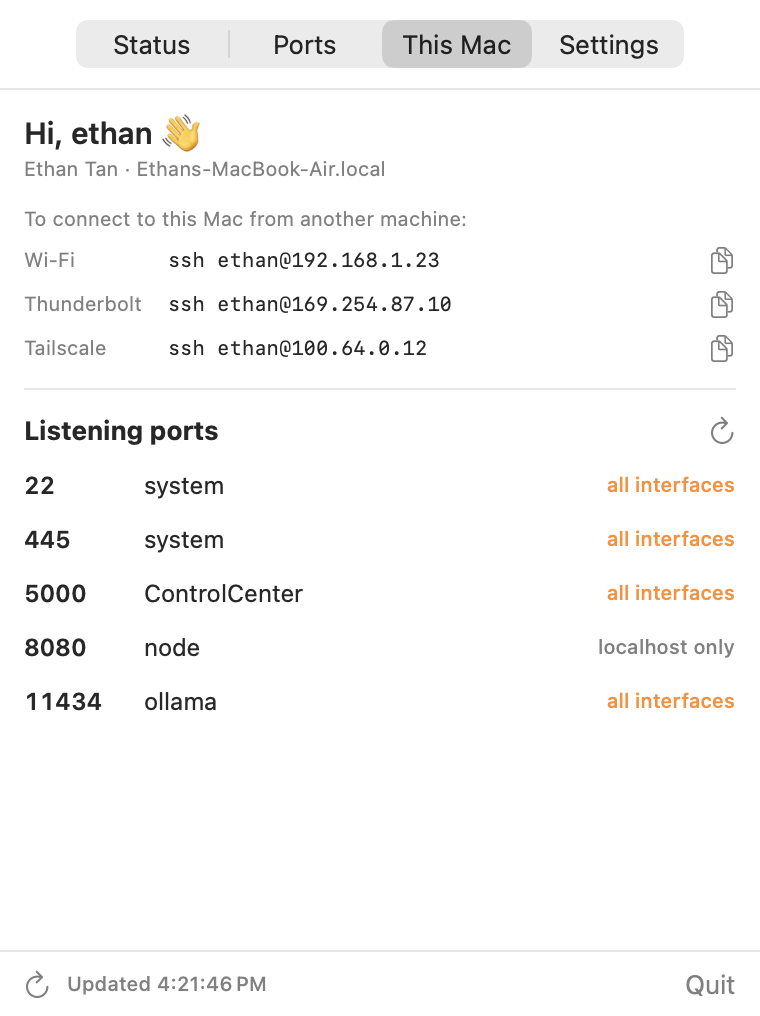
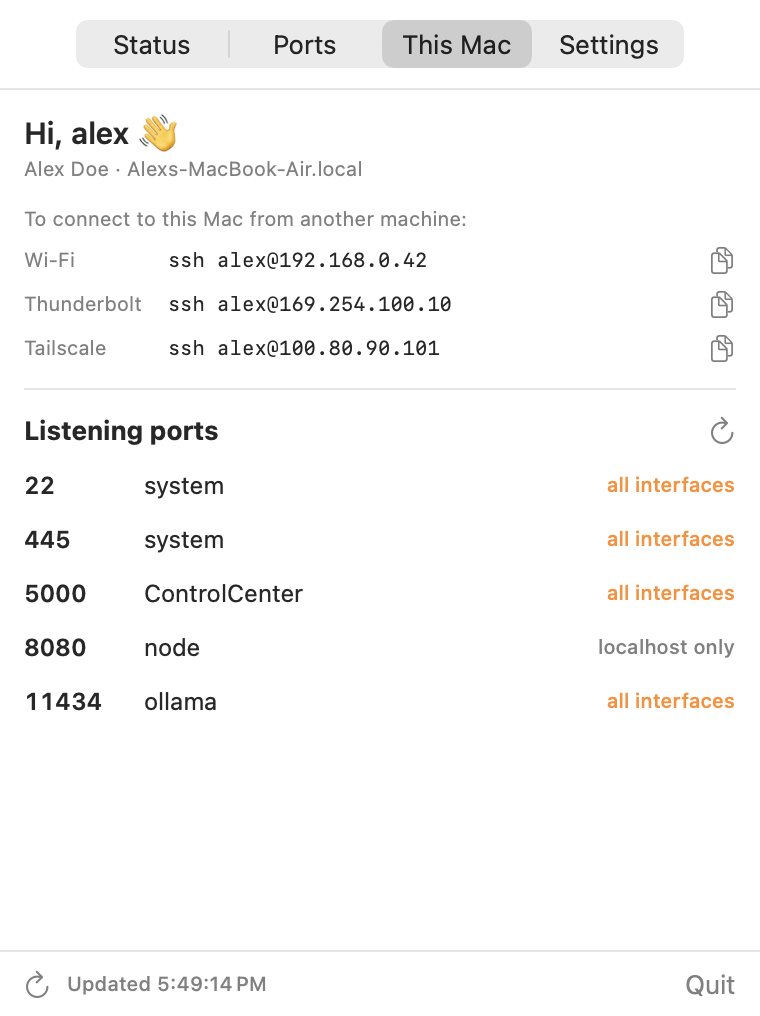
update 1.1

diff --git a/Sources/MiniLink/Snapshot.swift b/Sources/MiniLink/Snapshot.swift
@@ -15,10 +15,10 @@ func runSnapshotModeIfNeeded() {
     app.appearance = NSAppearance(named: .aqua)
 
     let settings = AppSettings()
-    settings.username = "ethan"
-    let lan = Route(name: "LAN", ip: "192.168.1.100", symbol: "network")
-    let ts = Route(name: "Tailscale", ip: "100.101.102.103", symbol: "point.3.filled.connected.trianglepath.dotted")
-    let tb = Route(name: "Thunderbolt", ip: "169.254.1.1", symbol: "bolt.fill")
+    settings.username = "alex"
+    let lan = Route(name: "LAN", ip: "192.168.0.50", symbol: "network")
+    let ts = Route(name: "Tailscale", ip: "100.80.90.100", symbol: "point.3.filled.connected.trianglepath.dotted")
+    let tb = Route(name: "Thunderbolt", ip: "169.254.100.2", symbol: "bolt.fill")
     settings.routes = [lan, ts, tb]
     let p22 = PortEntry(port: 22, label: "")
     let p445 = PortEntry(port: 445, label: "")
@@ -34,7 +34,7 @@ func runSnapshotModeIfNeeded() {
         tb.id: RouteStatus(reachable: true, latencyMs: 0.3),
     ]
     monitor.portStates = [p22.id: .open, p445.id: .open, p5900.id: .closed, p11434.id: .open]
-    monitor.mounts = [MountedShare(source: "//ethan@192.168.1.100/Media", mountPoint: "/Volumes/Media")]
+    monitor.mounts = [MountedShare(source: "//alex@192.168.0.50/Media", mountPoint: "/Volumes/Media")]
     monitor.lastRefresh = Date()
     monitor.scanResults = Defaults.commonScanPorts.map {
         ScanResult(port: $0, open: [22, 80, 445, 3000, 11434].contains($0))
@@ -42,11 +42,13 @@ func runSnapshotModeIfNeeded() {
 
     let localInfo = LocalInfo()
     localInfo.frozen = true
-    localInfo.hostName = "Ethans-MacBook-Air.local"
+    localInfo.username = "alex"
+    localInfo.fullName = "Alex Doe"
+    localInfo.hostName = "Alexs-MacBook-Air.local"
     localInfo.ips = [
-        LocalIP(iface: "en0", kind: "wifi", ip: "192.168.1.23"),
-        LocalIP(iface: "bridge0", kind: "thunderbolt", ip: "169.254.87.10"),
-        LocalIP(iface: "utun3", kind: "tailscale", ip: "100.64.0.12"),
+        LocalIP(iface: "en0", kind: "wifi", ip: "192.168.0.42"),
+        LocalIP(iface: "bridge0", kind: "thunderbolt", ip: "169.254.100.10"),
+        LocalIP(iface: "utun3", kind: "tailscale", ip: "100.80.90.101"),
     ]
     localInfo.listening = [
         ListeningPort(port: 22, addr: "*", process: ""),

diff --git a/Sources/MiniLink/Views/MainView.swift b/Sources/MiniLink/Views/MainView.swift
@@ -35,7 +35,7 @@ struct MainView: View {
             ScrollView {
                 switch tab {
                 case .status:
-                    StatusTab(settings: settings, monitor: monitor, tab: $tab, alertMsg: $alertMsg)
+                    StatusTab(settings: settings, monitor: monitor, localInfo: localInfo, tab: $tab, alertMsg: $alertMsg)
                 case .ports:
                     PortsTab(settings: settings, monitor: monitor)
                 case .local:
@@ -100,13 +100,14 @@ struct MainView: View {
 struct StatusTab: View {
     @Bindable var settings: AppSettings
     var monitor: StatusMonitor
+    var localInfo: LocalInfo
     @Binding var tab: MainView.Tab
     @Binding var alertMsg: String?
 
     var body: some View {
         VStack(alignment: .leading, spacing: 12) {
             VStack(alignment: .leading, spacing: 2) {
-                Text(settings.f("status.greeting", NSUserName())).font(.title3.bold())
+                Text(settings.f("status.greeting", localInfo.username)).font(.title3.bold())
                 Text(settings.t("status.subtitle")).font(.caption).foregroundStyle(.secondary)
             }
 

diff --git a/Sources/MiniLink/Monitor.swift b/Sources/MiniLink/Monitor.swift
@@ -196,8 +196,8 @@ final class StatusMonitor {
 @MainActor
 @Observable
 final class LocalInfo {
-    let username = NSUserName()
-    let fullName = NSFullUserName()
+    var username = NSUserName()
+    var fullName = NSFullUserName()
     var hostName: String = ProcessInfo.processInfo.hostName
 
     var ips: [LocalIP] = []
